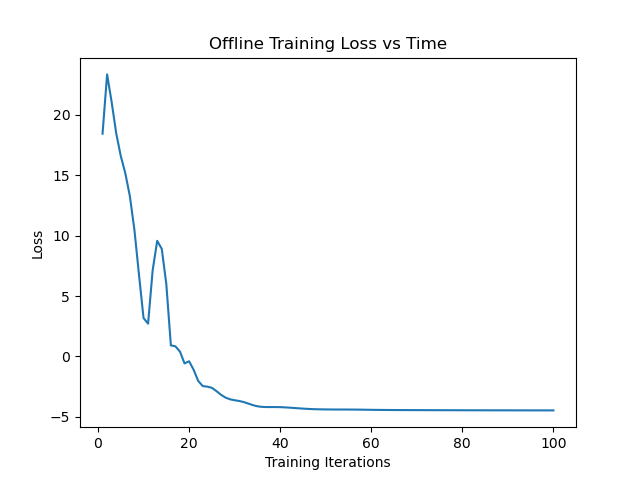
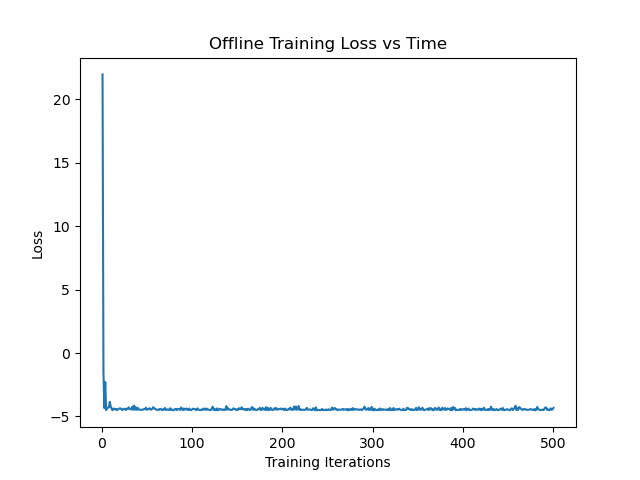
most functionality should be there

diff --git a/trainer.py b/trainer.py
@@ -1,6 +1,8 @@
 import torch
 import numpy as np
 import matplotlib.pyplot as plt
+import time
+import os
 
 class ALPaCA(torch.nn.Module):
     def __init__(self):
@@ -70,7 +72,7 @@ def loss_fn(preds, sigma_x, actual_values):
     #sigma_x is (n_batches, len_train_batch, len_train_batch)
     #actual_values is (n_batches, len_train_batch, 1)
     difference = preds - actual_values
-    log_gaussian = torch.matmul(preds.transpose(1, 2), torch.matmul(torch.inverse(sigma_x), preds)) #(n_batches, 1, 1)
+    log_gaussian = torch.matmul(difference.transpose(1, 2), torch.matmul(torch.inverse(sigma_x), difference)) #(n_batches, 1, 1)
     #print(log_gaussian)
     #print(sigma_x)
     log_det = torch.log(torch.linalg.det(sigma_x))
@@ -88,16 +90,16 @@ if __name__ == "__main__":
     Y_context = []
     x_train = []
     y_train = []
-    n_batches = 6
-    len_context = 15
+    n_batches = 3
+    len_context = 20
     len_train_batch = 1 #in practice, exceeding 4 results in sigma_x being singular (should I use identity matrix instead of 1?)
     #probably is a better way to implement next 9 lines but oh well
-    phases = np.linspace(0, 1, n_batches)
-    for i in range(1, n_batches+1):
+    freqs = np.linspace(0.5, 0.5, 2*n_batches)
+    for i in range(1, 2*n_batches + 1):
         X_context.append(torch.linspace(0, 1, len_context))
-        Y_context.append(torch.sin(2 * np.pi * torch.linspace(0, 1, len_context) + np.pi*phases[i-1]))
+        Y_context.append(torch.sin(freqs[i-1] * 2 * np.pi * torch.linspace(0, 1, len_context)))
         x_train.append(torch.linspace(1, 1.2, len_train_batch))
-        y_train.append(torch.sin(2 * np.pi * torch.linspace(1, 1.2, len_train_batch) + np.pi*phases[i-1]))
+        y_train.append(torch.sin(freqs[i-1] * 2 * np.pi * torch.linspace(1, 1.2, len_train_batch)))
     X_context = torch.stack(X_context).unsqueeze(2)
     Y_context = torch.stack(Y_context).unsqueeze(2)
     x_train = torch.stack(x_train).unsqueeze(2)
@@ -110,10 +112,10 @@ if __name__ == "__main__":
     print(y_train.shape)
 
     #offline meta learning
-    max_train_iter = 100 #for len_train_batch=1 doing more iterations than this doesn't change things in terms of loss
+    max_train_iter = 500 #for len_train_batch=1 doing more iterations than this doesn't change things in terms of loss
     optimizer = torch.optim.Adam(model.parameters())
     model.train()
-    perturb_training_data = False
+    perturb_training_data = True
     training_losses_offline = []
     average_variances = []
     for iter_count in range(max_train_iter):
@@ -130,10 +132,49 @@ if __name__ == "__main__":
 
         #for backpropping on different examples
         if perturb_training_data:
-            perturbation = torch.rand((n_batches, len_train_batch, 1)) * .1 #experiment with this factor
-            x_train = x_train + perturbation
-            for i in range(n_batches):
-                y_train[i] = torch.sin((i + 1) * x_train[i]) #can't think of a better way to do this
+            #x_train = []
+            y_train = []
+            Y_context = []
+            x_train = torch.rand((n_batches, len_train_batch, 1)) #experiment with this factor
+            X_context = torch.rand((n_batches, len_context, 1))
+            i = 0
+            for iter in np.random.randint(n_batches*2, size=n_batches):
+                y_train.append(torch.sin(freqs[iter] * 2 * np.pi * x_train[i]))#can't think of a better way to do this
+                Y_context.append(torch.sin(freqs[iter] * 2 * np.pi * X_context[i]))
+                i += 1
+            y_train = torch.stack(y_train)
+            Y_context = torch.stack(Y_context)
+            #print(x_train.shape)
+            #print(y_train.shape)
+            #raiseException()
+        if iter_count % 25 == 0:
+            plt.figure((iter_count/100)+1)
+            time.sleep(2)
+            #Online Part
+            #First want to see what the model returns when predicting over the interval (what the offline posterior parameters return)
+            model.start_online()
+            x = np.linspace(0, 1, 100)
+            y_top = []
+            y = []
+            y_bottom = []
+            for i in range(len(x)):
+                pred, sigma = model.online(torch.tensor(x[i:i+1]).float())
+                u = pred.detach().numpy()[0][0]
+                v = np.sqrt(sigma.detach().numpy()[0][0]) #standard deviation
+                y.append(u)
+                y_bottom.append(u - 2*v)
+                y_top.append(u + 2*v)
+
+            #Plot predictions with confidence interval
+            plt.plot(x, y)
+            plt.plot(x, y_bottom, "r")
+            plt.plot(x, y_top, "r")
+            plt.title(f"Predictions from the Meta Learning Prior with 95% confidence interval : {training_losses_offline[-1]}")
+            plt.xlabel("x")
+            plt.ylabel("y")
+            plt.savefig("Prior_Confidence")
+            plt.close()
+
 
     #Plot training loss vs time
     x = np.linspace(1, len(training_losses_offline), len(training_losses_offline))
@@ -188,44 +229,56 @@ if __name__ == "__main__":
 
 
     #Now want to fit to a specific sinusoid with our meta learning prior
-    x = np.linspace(0, 1, 100)
-    y = np.sin(2*np.pi*x + 0.5*np.pi)
+    test_freq = 0.5
+    #x = np.linspace(0, 1, 100)
+    x = np.random.rand(75)
+    x_copy = x[:]
+    y = np.sin(test_freq * 2 * np.pi*x)
+    y_copy = y[:]
     y_pred_top = []
     y_pred = []
     y_pred_bottom = []
-    for i in range(len(x)):
-        pred, sigma = model.online(torch.tensor(x[i:i+1]).float(), update=True, y=torch.tensor(y[i:i+1]).float())
-        u = pred.detach().numpy()[0][0]
-        v = np.sqrt(sigma.detach().numpy()[0][0]) #standard deviation
-        #print(v)
-        y_pred.append(u)
-        y_pred_bottom.append(u - 2*v)
-        y_pred_top.append(u + 2*v)
 
-    y_pred = []
-    y_pred_bottom = []
-    y_pred_top = []
-    for i in range(len(x)):
-        pred, sigma = model.online(torch.tensor(x[i:i+1]).float())
-        u = pred.detach().numpy()[0][0]
-        v = np.sqrt(sigma.detach().numpy()[0][0]) #standard deviation
-        #print(v)
-        y_pred.append(u)
-        y_pred_bottom.append(u - 2*v)
-        y_pred_top.append(u + 2*v)
+    for epoch in range(1):
+        plt.figure(epoch+5)
+        time.sleep(2)
+        for i in range(len(x)):
+            pred, sigma = model.online(torch.tensor(x[i:i+1]).float(), update=True, y=torch.tensor(y[i:i+1]).float())
+            #u = pred.detach().numpy()[0][0]
+            #v = np.sqrt(sigma.detach().numpy()[0][0]) #standard deviation
+            #print(v)
+            #y_pred.append(u)
+            #y_pred_bottom.append(u - 2*v)
+            #y_pred_top.append(u + 2*v)
 
-    #Plot predictions
-    plt.figure(5)
-    x = x[5:]
-    y = y[5:]
-    y_pred = y_pred[5:]
-    y_pred_top = y_pred_top[5:]
-    y_pred_bottom = y_pred_bottom[5:]
-    plt.plot(x, y, "black")
-    plt.plot(x, y_pred, "blue")
-    plt.plot(x, y_pred_top, "red")
-    plt.plot(x, y_pred_bottom, "red")
-    plt.title("Predictions from the Meta Learning Prior")
-    plt.xlabel("x")
-    plt.ylabel("y")
-    plt.savefig("Learned_Sinusoid")
+        y_pred = []
+        y_pred_bottom = []
+        y_pred_top = []
+        x = x_copy[:]
+        y = y_copy[:]
+        for i in range(len(x)):
+            pred, sigma = model.online(torch.tensor(x[i:i+1]).float())
+            u = pred.detach().numpy()[0][0]
+            v = np.sqrt(sigma.detach().numpy()[0][0]) #standard deviation
+            #print(v)
+            y_pred.append(u)
+            y_pred_bottom.append(u - 2*v)
+            y_pred_top.append(u + 2*v)
+
+        #Plot predictions
+        #plt.figure(5)
+        x = x[5:]
+        y = y[5:]
+        y_pred = y_pred[5:]
+        y_pred_top = y_pred_top[5:]
+        y_pred_bottom = y_pred_bottom[5:]
+        #plt.plot(x, y, "black")
+        plt.scatter(x, y_pred)
+        plt.scatter(x, y_pred_top, c="r")
+        plt.scatter(x, y_pred_bottom, c="r")
+        plt.scatter(x, y)
+        plt.title("Predictions from the Meta Learning Prior")
+        plt.xlabel("x")
+        plt.ylabel("y")
+        plt.savefig("Learned_Sinusoid")
+        plt.close()
